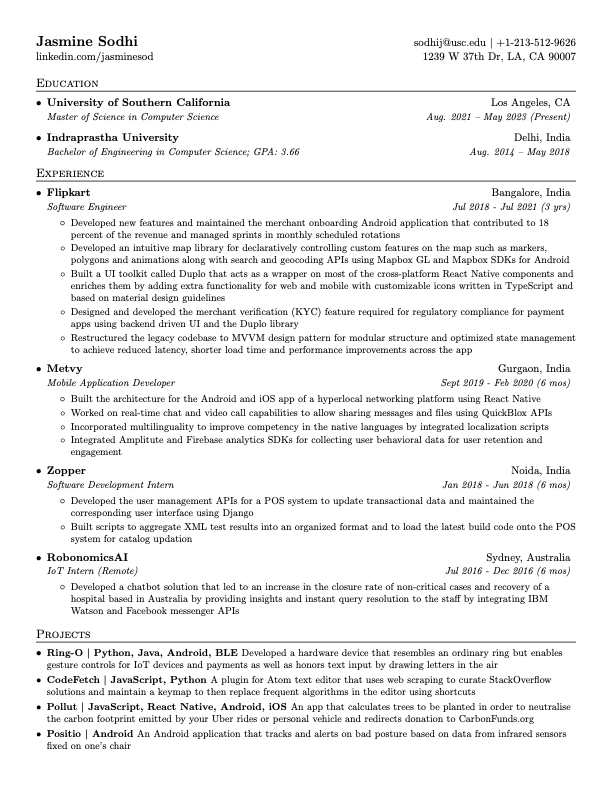
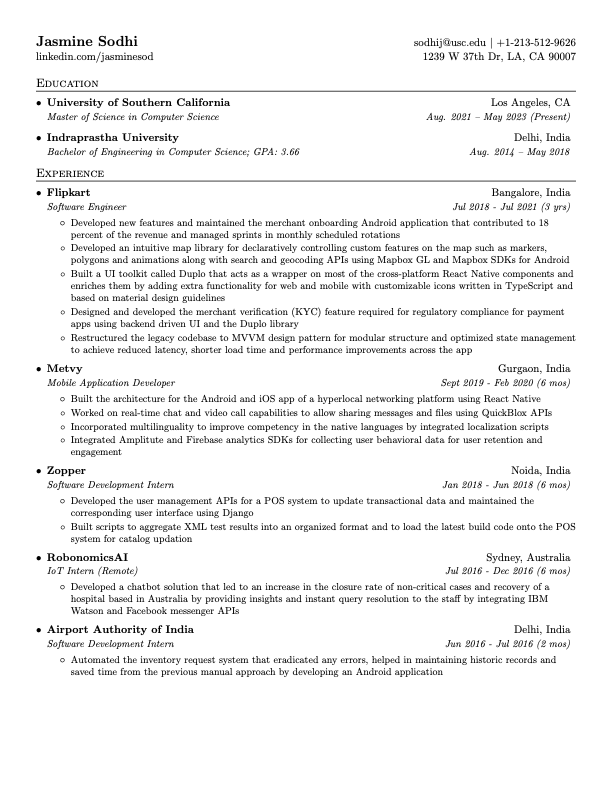
Added AAI work experience

Changed region(s): [[0.0621, 0.7879, 0.9314, 0.9697]]

diff --git a/jasmine_sodhi.tex b/jasmine_sodhi.tex
@@ -162,6 +162,14 @@
         \resumeItem{}
           {Developed a chatbot solution that led to an increase in the closure rate of non-critical cases and recovery of a hospital based in Australia by providing insights and instant query resolution to the staff by integrating IBM Watson and Facebook messenger APIs}
       \resumeItemListEnd
+      
+      \resumeSubheading
+      {Airport Authority of India}{Delhi, India}
+      {Software Development Intern}{Jun 2016 - Jul 2016 (2 mos)}
+      \resumeItemListStart
+        \resumeItem{}
+          {Automated the inventory request system that eradicated any errors, helped in maintaining historic records and saved time from the previous manual approach by developing an Android application}
+      \resumeItemListEnd
 
   \resumeSubHeadingListEnd
 
